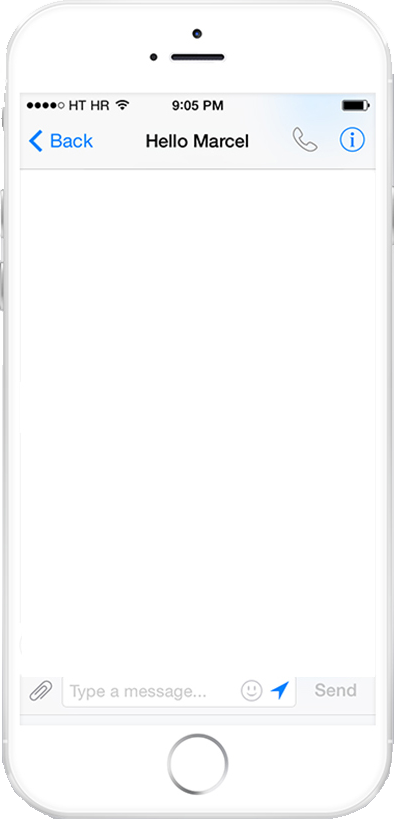
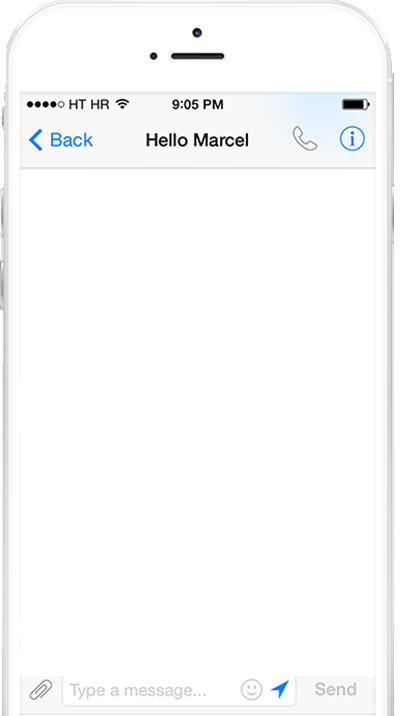
Corrections

diff --git a/public/css/style.css b/public/css/style.css
@@ -51,11 +51,18 @@ html {
 .iframevd {
 	position: relative;
 	height: 546px;
-	margin-bottom: 30px;
+	margin-bottom: 29px;
 }
 
 .lightgreybg {
 	background-color: rgba(215, 215, 215, 0.1) !important;
+}
+
+.hellomarcel {
+	height: 80px;
+	margin-top: 524px;
+	padding-bottom: -50px !important;
+	object-fit: cover;
 }
 
 .accroche {
@@ -71,8 +78,6 @@ html {
 	bottom: 28px;
 	right: 100px;
 }
-
-
 
 .accroche:after, .accroche:before {
     content: ' ';
@@ -103,10 +108,12 @@ html {
     box-sizing: border-box;
     background: url('../images/empty_iphone.png') center center no-repeat;
     background-size: contain;
+	margin-top: 149px;
 	padding-top: 50px;
-	padding-bottom: 60px;
-	width: 272px;
-	height: 546px;
+	padding-bottom: 0;
+	height: 427px;
+	z-index: 0;
+	position: relative;
 }
 
 .fa-whois {
@@ -404,7 +411,7 @@ body {
 }
 
 @media (max-width: 425px) {
-	.iframevd iframe { margin-left: 0%; }
+	.iframevd iframe { margin-left: 0%;  }
 
 	#bg { left: -220%; }
 
